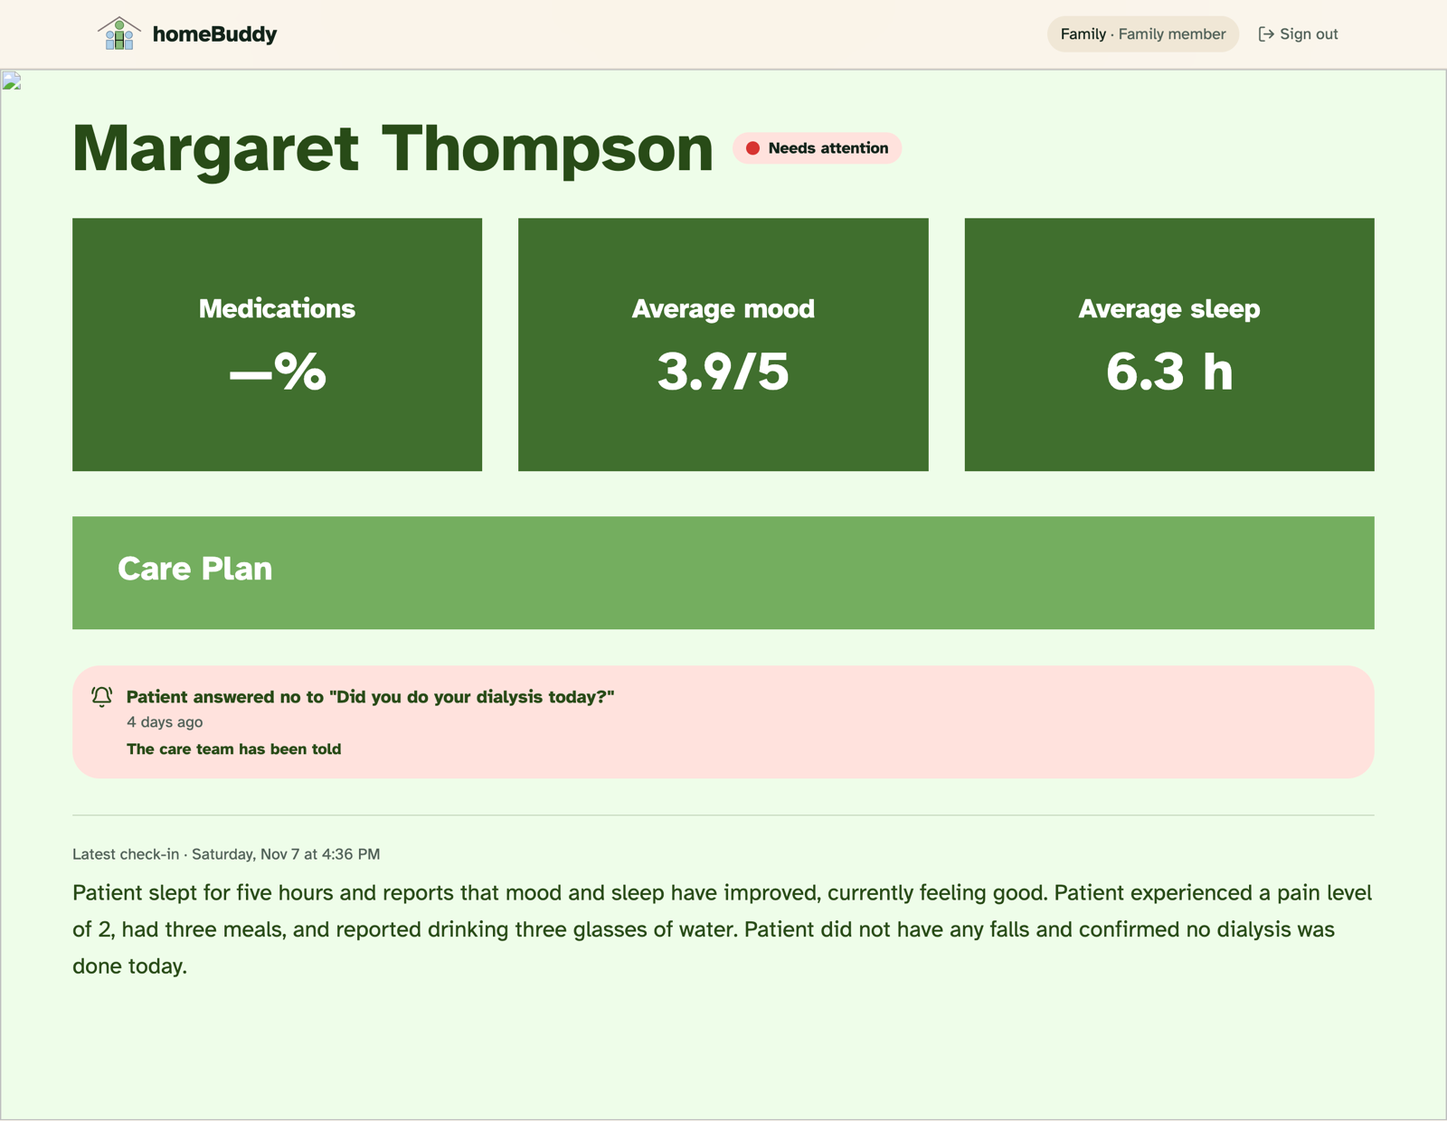
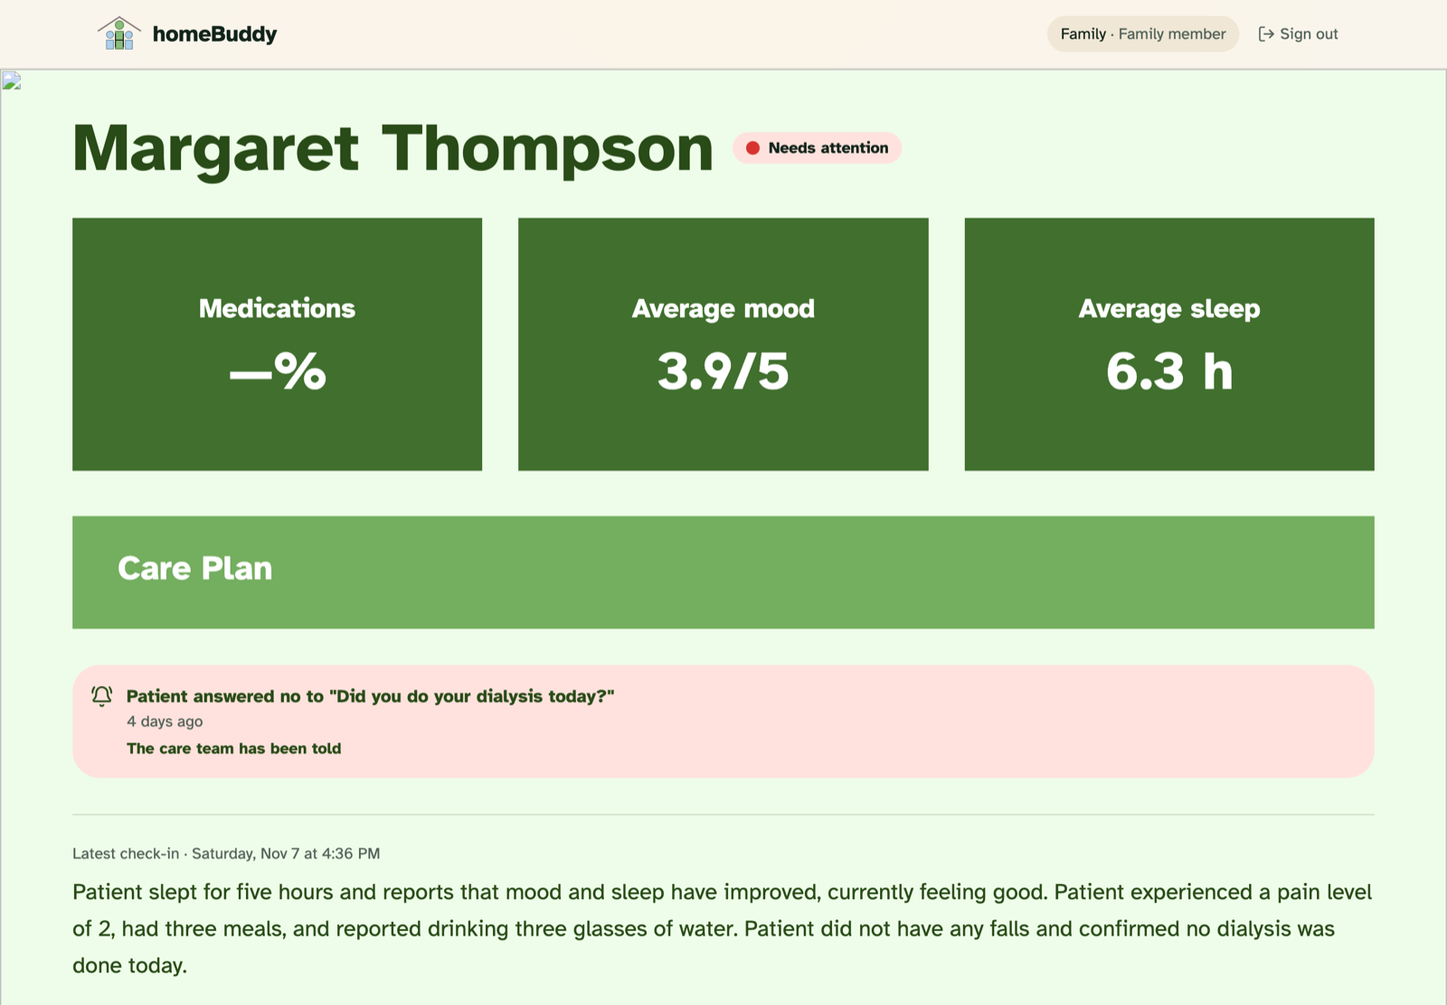
README: smoother wording, questions for the doctor, side-by-side screenshots, simpler build section

diff --git a/README.md b/README.md
@@ -4,99 +4,99 @@
 
 Built for the **PointClickCare Challenge** at the **Women in Engineering (WiE) Hackathon 2026**, University of Waterloo.
 
-> ⚠ **Safety notice:** homeBuddy is a hackathon prototype. It is not a medical device and never diagnoses or gives treatment advice. The older adult's screen always says to call **911** in an emergency. All patient data shown here is fictional.
+> ⚠ homeBuddy is a hackathon prototype, not a medical device. It never diagnoses or gives treatment advice, and the older adult's screen always says to call 911 in an emergency. All patient data shown here is fictional.
 
 ---
 
-## 💡 The problem
+## The problem
 
-Older adults living on their own often face slow-building health problems: missed meals, growing tiredness, dehydration, skipped medications. Nobody notices until they end in an emergency room visit.
+Older adults living on their own often face health problems that build slowly: missed meals, growing tiredness, dehydration, skipped medications. Nobody notices until it ends in an emergency room visit.
 
-In a nursing home, staff check on residents every day. At home, nobody does. Health portals don't fill the gap, because they expect older adults to log in, type and navigate complex screens.
+In a nursing home, staff check on residents every day. At home, nobody does, and health portals don't fill the gap because they expect older adults to log in, type and find their way around complex screens.
 
-**homeBuddy replaces the daily form and the nurse's phone call with a short, friendly voice call**, then passes what it hears to the clinician and family.
+homeBuddy replaces the daily form and the nurse's phone call with a short, friendly voice call, and passes what it hears to the care team and family.
 
 ---
 
-## 🚦 The rules: green, yellow, red
+## The rules: green, yellow, red
 
-After each daily voice check-in, the day gets a colour that tells the care team how urgently to respond. **The AI never decides the colour.** It only reports what the older adult said. Plain, tested code in [`src/lib/care.ts`](src/lib/care.ts) applies the rules, so the same answers always give the same result, and every flag can say exactly why it fired. 
+After each daily check-in call, the day gets a colour that tells the care team how quickly to respond. The AI doesn't choose the colour. It only reports what the older adult said, and a fixed set of rules decides the colour from that, so the same answers always give the same result and every flag can explain why it was raised.
 
-| Colour | Meaning | What triggers it |
+| Colour | Meaning | What causes it |
 | --- | --- | --- |
-| 🟢 **Green** | All good | Nothing flagged |
-| 🟡 **Yellow** | Watch: the clinician monitors | Missed or unconfirmed medication, low mood (2/5 or less), under 5 h sleep, fewer than 2 meals, low fluids, pain 4–6/10, or an answer the clinician marked "flag if" |
-| 🔴 **Red** | Act today: contact the patient | A fall, urgent words ("chest pain", "can't breathe", "dizzy"…), pain 7/10 or more, or **yellow that keeps happening** |
+| 🟢 Green | All good | Nothing flagged |
+| 🟡 Yellow | Keep an eye on it | A missed or unconfirmed medication, low mood (2/5 or less), under 5 hours of sleep, fewer than 2 meals, not drinking enough, pain of 4–6/10, or an answer the doctor asked to flag |
+| 🔴 Red | Contact the patient today | A fall, urgent words like "chest pain" or "can't breathe", pain of 7/10 or more, or a yellow that keeps coming back |
 
-**Yellow becomes red when it repeats.** One bad night is something to watch. Three in a row means something is changing:
-- the same built-in reason (e.g. low mood) **3 days in a row** turns red;
-- each clinician question has its own "turns red after N times in a row" setting. Setting it to 1 makes it red right away (e.g. skipping dialysis even once).
+A yellow that repeats turns red. One bad night is worth watching, but three in a row suggests something is changing. The same reason (low mood, say) three days in a row turns the day red. For their own questions, the doctor decides how many flagged answers in a row it takes. Setting it to 1 makes a single flagged answer red straight away, which suits something like a skipped dialysis session.
 
-**Who is told:**
+Here's who hears about each colour:
 
-| | Clinician | Family | Older adult |
+| | Doctor | Family | Older adult |
 | --- | --- | --- | --- |
-| 🔴 Red | Top of the dashboard, with the reason and quote | Alert with the reason, in plain words | "In an emergency, call 911" is always on screen |
-| 🟡 Yellow | Yellow badge and alert | Alert with the reason | Nothing extra |
-| 🟢 Green | Green badge | Green status | Nothing extra |
-
-Family only see an older adult's information while the older adult chooses to share it with them.
+| 🔴 Red | At the top of the dashboard, with the reason and a quote from the call | An alert explaining what happened | Always sees "In an emergency, call 911" on screen |
+| 🟡 Yellow | A yellow badge and an alert | An alert explaining what happened | Nothing extra |
+| 🟢 Green | A green badge | A green status | Nothing extra |
 
 ---
 
-## 🔁 How it's used: doctor → older adult → doctor → family
+## How it's used
+
+The day follows a loop: the doctor sets the check-in, the older adult talks, the doctor follows up, and family can see all of it.
 
 ### 1. The doctor sets up the check-in
-On a patient's page (`/care/:patientId`), the clinician writes the questions for that older adult, e.g. *"Did you do your dialysis today?"* or *"How many glasses of water today?"*. For each one, they choose:
-- **when to flag:** a yes/no answer, or a number above or below a limit;
-- **when it turns red:** after how many flagged days in a row;
-- **how often it's asked:** every day, every few days, or just once.
 
-They can also update the care plan (e.g. a new medication time), and Rosie will tell the older adult about it on the next call.
+On each patient's page, the doctor writes the questions they want asked, like *"Did you do your dialysis today?"* or *"How many glasses of water did you drink?"*. For each question they decide which answer should be flagged (a yes, a no, or a number above or below a limit), how many flagged days in a row should turn it red, and how often to ask it: every day, every few days, or just once.
 
-> **In the code:** the questions are saved to the older adult's record in Supabase. Before each call, `callContext()` in `care.ts` turns them into the list of questions to ask that day.
+The doctor can also update the care plan, for example moving a medication to lunchtime. Rosie explains the change on the next call.
 
-### 2. The older adult just talks
-The older adult opens `/senior` and taps one big button. **Rosie**, an AI voice companion, greets them and asks about sleep, meals, fluids, pain, mood, falls and medications, then the doctor's questions. If an answer is vague ("I think so"), she asks again in simpler words. No typing is needed.
+### 2. The older adult talks to Rosie
 
-> **In the code:** the browser streams microphone audio over a WebSocket to our server (`/api/live`), which relays it to **Google Gemini Live** and streams Rosie's voice back. The server adds the day's questions and keeps the Gemini API key secret.
->
-> **Urgent words don't wait for the call to end.** While the older adult talks, the app checks each sentence for words like *"chest pain"*, *"fell"* or *"can't breathe"*. If it hears one, it sends a red alert to the care team and family right away, and tells the older adult they've been alerted.
+The older adult taps one big button and **Rosie**, an AI voice companion, starts a friendly conversation. She asks about sleep, meals, drinks, pain, mood, falls and medications, then the doctor's questions. If an answer is vague ("I think so"), she asks again in simpler words. Nothing needs to be typed.
 
-### 3. The call is summarized and screened
-When the call ends, the older adult sees a simple summary of what was said. Behind the scenes, the day is marked **🟢 green**, **🟡 yellow** or **🔴 red** using [the rules](#-the-rules-green-yellow-red) above.
+At the end, Rosie asks if there's anything they'd like to ask their care team, such as *"Do I have to do dialysis every single day?"*. The question goes to the doctor, and Rosie passes on the doctor's answer during the next call.
 
-> **In the code:** a server function (`runSummary` in `checkin.functions.ts`) sends the transcript to **Gemini Flash**, which returns structured answers: for each question, the older adult's words and *yes / no / unclear*. The rules in `care.ts` then colour the day and create alerts, each with the reason and the older adult's own words.
+Urgent words don't wait for the call to end. If the older adult says something like "I fell" or "my chest hurts", the app sends a red alert to the care team and family right away.
+
+### 3. The call is summarized and coloured
+
+When the call ends, the older adult sees a simple summary of what they said. Behind the scenes, the AI turns the conversation into an answer for each question (yes, no or unclear, plus the older adult's own words), and the rules above decide the colour and who gets an alert.
 
 ### 4. The doctor follows up
-The care dashboard (`/care`) lists every patient sorted **red → yellow → green**, with open alerts at the top and how long each has waited. Red means contact the patient today, and yellow means keep an eye on it. Each alert says why, e.g. *"Mood 2/5 (low) 3 days in a row"*, with a quote from the call.
 
-Each alert moves through three stages:
-1. **New:** the care team has been told.
-2. **On it:** a clinician taps "On it", so the rest of the team (and the family) know someone is handling it.
-3. **Handled:** the clinician taps "Mark handled" and **must write a note** on what they did, e.g. *"Called Margaret, booked a dialysis appointment for Friday."* The note stays attached to that alert, with who handled it and when. Handled alerts move to a **Handled** list on the dashboard, so there's a record of every follow-up.
+The dashboard lists every patient, red first, then yellow, then green, with open alerts at the top showing how long each has been waiting. Every alert says why it was raised, for example *"Mood 2/5 (low) 3 days in a row"*, and quotes what the older adult said.
 
-The patient page also shows history charts for each question, so trends are easy to spot.
+When a doctor takes an alert, they tap **On it**, so the rest of the team and the family know someone is handling it. When it's dealt with, they tap **Mark handled** and have to write a note on what they did, such as *"Called Margaret, booked a dialysis appointment for Friday."* That note stays with the alert, along with who handled it and when, so every follow-up is on record.
+
+On each patient's page, the doctor also answers the older adult's questions and can look through charts of past answers to spot trends.
 
 ### 5. Family stay in the loop
-Family members (`/family`) see today's colour, the latest summary and any alerts, in plain words. They also see each alert's follow-up as it happens: *"The care team has been told"* → *"Dr. Lee is on it"* → *"Resolved by Dr. Lee: Called Margaret, booked a dialysis appointment for Friday."* The family view is read-only.
 
-> **In the code:** all three screens read the same record and refresh every 20 seconds, so a check-in on the older adult's phone appears on the doctor's laptop. The database's access rules, not the UI, decide who can see and change what.
+Family members see today's colour, the latest summary and any alerts in plain language. They can also follow each alert's progress, from *"The care team has been told"* to *"Dr. Lee is on it"* to *"Resolved by Dr. Lee: Called Margaret, booked a dialysis appointment for Friday."* The family view is read-only, and the older adult can stop sharing with family at any time.
+
+All three screens update every 20 seconds, so a check-in on the older adult's phone shows up on the doctor's laptop within moments.
 
 ---
 
-## 📸 Screenshots
+## Screenshots
 
-**Clinician dashboard:** patients sorted by colour, with the alerts that need a response.
+**Doctor's dashboard.** Margaret is red because she missed dialysis. Clarissa is yellow because she's drinking less water than her doctor wants.
 
-![Clinician dashboard: Margaret is red (missed dialysis), Clarissa is yellow (drinking too little water), with alerts below](docs/screenshots/care.png)
+![Doctor's dashboard: Margaret is red (missed dialysis), Clarissa is yellow (drinking too little water), with alerts below](docs/screenshots/care.png)
 
-| Older adult: one button to start the call | Family: today's status and the follow-up |
-| --- | --- |
-| <img src="docs/screenshots/senior.png" alt="Older adult's screen with a large Start Checkup button, a 911 reminder and sharing controls" width="300"> | <img src="docs/screenshots/family.png" alt="Family view of Margaret: Needs attention, with the dialysis alert and 'The care team has been told'" width="560"> |
+<table>
+  <tr>
+    <th>Older adult: one button to start the call</th>
+    <th>Family: today's status and the follow-up</th>
+  </tr>
+  <tr>
+    <td align="center"><img src="docs/screenshots/senior.png" alt="Older adult's screen with a greeting, a large Start Checkup button and a 911 reminder" height="380"></td>
+    <td align="center"><img src="docs/screenshots/family.png" alt="Family view of Margaret: Needs attention, with the dialysis alert and 'The care team has been told'" height="380"></td>
+  </tr>
+</table>
 
 <details>
-<summary><b>Patient page</b> (clinician): question graphs, the older adult's questions, check-in rules, care plan and history</summary>
+<summary><b>Patient page</b> (click to open): answer charts, the older adult's questions for the doctor, check-in questions, care plan and history</summary>
 
 ![Margaret's patient page](docs/screenshots/care-patient.png)
 
@@ -104,52 +104,32 @@ Family members (`/family`) see today's colour, the latest summary and any alerts
 
 ---
 
-## 🏗 Architecture
+## How it's built
 
-![How a check-in flows: the doctor saves questions, the older adult talks to Rosie through our server and Gemini, the rules colour the day, and the clinician and family screens pick it up](docs/screenshots/architecture.png)
+![How a check-in flows between the screens, our server, Google Gemini and the database](docs/screenshots/architecture.png)
 
-- **Before the call:** the doctor's questions are saved in Supabase, and the call screen loads them.
-- **During the call:** audio streams through our server to Gemini Live, and Rosie's voice streams back. Our server sits in the middle so the Gemini key never reaches the browser.
-- **After the call:** our server asks Gemini Flash to turn the transcript into structured answers. The rules in `care.ts` decide the colour and who gets an alert, and the result is saved.
-- **Follow-up:** the clinician and family screens pick it up within 20 seconds, and the clinician's follow-up is saved back to the same record.
+The diagram follows one check-in from start to finish. Before the call, the older adult's screen loads the doctor's questions from the database. During the call, audio streams through our server to Google's Gemini Live, which speaks as Rosie. Afterwards, our server asks a second Gemini model to turn the transcript into structured answers. The rules then set the colour and alerts, the result is saved, and the doctor's and family's screens pick it up.
 
-**Frontend:** designed in **Figma**, built with **TanStack Start** (React 19, TypeScript, Vite), **Tailwind CSS** and **Radix UI**. It uses the Atkinson Hyperlegible font, large text and high contrast for older eyes. Each role has its own pages under `src/routes/_authenticated/`.
+The voice and the summary both go through our own server, never straight from the browser to Google, so the Gemini API key always stays secret.
 
-**Backend:** **Supabase** stores the data and handles sign-in. Each older adult has one record, holding their questions, check-ins, alerts and care plan, read and written through `care-store.ts`. Family and clinicians link to an older adult by entering the invite code shown on the older adult's screen.
-
-**Privacy is enforced by the database itself**, using Supabase row-level security (`supabase/migrations/`). Even someone who bypasses the app's screens gets the same answer:
-
-| Who | Can see the older adult's record | Can change it |
+| Part | What it does | Built with |
 | --- | --- | --- |
-| The older adult | ✅ Always | ✅ Yes |
-| Their care team (linked by invite code) | ✅ Always | ✅ Yes: questions, care plan, alert follow-ups |
-| Family (linked by invite code) | ✅ Only while the older adult has sharing turned on for them | ❌ Never |
-| Anyone else | ❌ No | ❌ No |
-
-Each account's role (older adult, family or care team) is chosen once at signup. Users can't change it afterwards, so a family member can't make themselves a clinician.
-
-**AI:** **Google Gemini** runs the voice call and writes the summary. Both calls go through our server, so the API key stays secret. The AI only reports what was said: the colour always comes from the tested rules in `care.ts`.
-
-### Tech stack
-
-| Layer | Tools |
-| --- | --- |
-| Design | Figma |
-| Frontend | TanStack Start v1 (React 19, TypeScript, Vite), Tailwind CSS v4, Radix UI, Recharts |
-| Backend | Supabase (Postgres, row-level security, Auth), server functions and a WebSocket relay |
-| AI | Google Gemini Live (voice), Gemini Flash (structured summaries) |
-| Testing and CI | Vitest, React Testing Library, GitHub Actions |
-| Built with | Lovable, Claude Code |
+| Design | The look of all three screens, with large text, high contrast and an easy-to-read font for older eyes | Figma, Atkinson Hyperlegible |
+| Frontend | The older adult's, doctor's and family's screens | TanStack Start (React 19, TypeScript, Vite), Tailwind CSS, Radix UI, Recharts |
+| Voice call | Streams the conversation between the browser and Gemini | A WebSocket relay on our server, Google Gemini Live |
+| Call summary | Turns the transcript into an answer for each question | A server function, Google Gemini Flash |
+| Rules | Decide green, yellow or red, and who gets an alert | TypeScript, with unit tests ([`care.ts`](src/lib/care.ts)) |
+| Backend | Stores patients, check-ins and alerts, and handles sign-in for the three kinds of account | Supabase (Postgres and Auth) |
+| Checks | Lint, tests and a build run on every push | Vitest, GitHub Actions |
+| Built with | AI tools we used to build quickly as a team | Lovable, Claude Code |
 
 ---
 
-## 🚀 Running it yourself
+## Running it yourself
 
-**Bring your own backend.** Our hackathon demo ran on our team's own Supabase project and Gemini API key, and neither is shared:
-- the **Gemini key** was never in this repo (it lived only in our hosting settings);
-- the **Supabase address** in the code points to our project, so you'll swap in yours in step 2.
+Our demo runs on our team's own Supabase project and Gemini API key, and neither is shared. The Gemini key was never in this repo, and the Supabase address in the code points to our project, so to run your own copy you'll connect your own.
 
-**You'll need:** [Bun](https://bun.sh) (a JavaScript runtime and package manager), a free [Supabase](https://supabase.com) project, a [Gemini API key](https://aistudio.google.com/app/apikey), and Chrome (for microphone access).
+**You'll need** [Bun](https://bun.sh) (a JavaScript runtime and package manager), a free [Supabase](https://supabase.com) project, a [Gemini API key](https://aistudio.google.com/app/apikey), and Chrome for microphone access.
 
 **1. Download and install**
 ```bash
@@ -158,57 +138,40 @@ cd homeBuddy
 bun install
 ```
 
-**2. Connect your own Supabase project**
-1. **Create the tables and access rules.** In your Supabase dashboard, open the **SQL Editor** and run each file in `supabase/migrations/`, oldest first (they're named by date). If you use the [Supabase CLI](https://supabase.com/docs/guides/cli), run `supabase link` then `supabase db push` instead.
-2. **Point the app at your project.** In **Project Settings → API**, copy your **Project URL** and **publishable key**. Paste them over the two values at the top of `src/integrations/supabase/client.ts`:
+**2. Connect your Supabase project**
+1. In your Supabase dashboard, open the **SQL Editor** and run each file in `supabase/migrations/`, oldest first (they're named by date). This creates the tables and access rules. If you use the [Supabase CLI](https://supabase.com/docs/guides/cli), `supabase link` then `supabase db push` does the same.
+2. Under **Project Settings → API**, copy your **Project URL** and **publishable key**, and paste them over the two values at the top of `src/integrations/supabase/client.ts`:
    ```ts
    const SUPABASE_URL = "https://YOUR-PROJECT.supabase.co";
    const SUPABASE_PUBLISHABLE_KEY = "sb_publishable_...";
    ```
-   Update the matching values in `.env` too, so the two files agree.
-3. **Allow sign-in from your computer.** In **Authentication → URL Configuration**, set the Site URL to `http://localhost:8080`. New Supabase projects ask users to confirm their email by default. Either click the link in the email, or turn off **Confirm email** under **Authentication → Providers → Email** while testing.
+   Update the matching values in `.env` as well, so the two files agree.
+3. Under **Authentication → URL Configuration**, set the Site URL to `http://localhost:8080`. New Supabase projects ask people to confirm their email by default, so either click the link in the email or turn off **Confirm email** under **Authentication → Providers → Email** while you test.
 
-> The publishable key is designed to be public: the access rules above limit what it can do. **Never** put your Supabase *secret* (service role) key in the code.
+The publishable key is designed to be public, so it's fine in the code. Never put your Supabase *secret* key there.
 
-**3. Add your Gemini key.** The server reads it from your terminal, so it never goes into a file in the repo. Run this in the same terminal you'll start the app from:
+**3. Add your Gemini key.** The server reads it from your terminal, so it never ends up in a file. Run this in the same terminal you'll start the app from:
 ```bash
 export GEMINI_API_KEY=your-gemini-api-key
 ```
 
-**4. Run**
+**4. Run it**
 ```bash
-bun run dev     # open http://localhost:8080
-bun run test    # unit tests
-bun run build   # production build
+bun run dev     # then open http://localhost:8080
+bun run test    # run the tests
 ```
 
 **5. Try the full loop**
-1. Sign up as an **older adult** (the "I'm a senior" option) and note the invite code on your screen.
-2. In a private window, sign up as **care team** and enter the code. Add a question with a "flag if" rule.
-3. In another private window, sign up as **family** and enter the code. Sharing starts on, and the older adult can turn it off at any time.
-4. As the older adult, start a check-in and talk to Rosie. Watch the result appear on the other two screens.
+1. Sign up as an older adult (the "I'm a senior" option) and note the invite code on the screen.
+2. In a private window, sign up as care team and enter the code. Add a question with a flag rule.
+3. In another private window, sign up as family and enter the code.
+4. Back as the older adult, start a check-in and talk to Rosie, then watch the result appear on the other two screens.
 
-> Note: some decorative background images are hosted by Lovable, the tool we built with, so they won't load in your copy. The app works without them.
-
-### Project layout
-
-```
-src/
-  routes/_authenticated/  older adult (senior.tsx), care (clinician) and family pages
-  hooks/use-live-voice.ts browser side of the voice call
-  lib/
-    care.ts               green / yellow / red rules and alert routing (+ tests)
-    care-store.ts         reads and writes each older adult's record in Supabase
-    checkin.functions.ts  AI call summary (server)
-    live-relay.server.ts  voice relay to Gemini Live (server)
-    auth.ts               roles and page access
-supabase/migrations/      database tables and access rules
-docs/                     our hackathon plan (BRIEF.md) and user flows (FLOWS.md)
-```
+Some decorative background images are hosted by Lovable, the tool we built with, so they won't load in your copy. Everything else works without them.
 
 ---
 
-## 👩💻 Team
+## Team
 
 Built in 7 hours by:
 - **Winnie Chen** ([@winnie-c8](https://github.com/winnie-c8))
